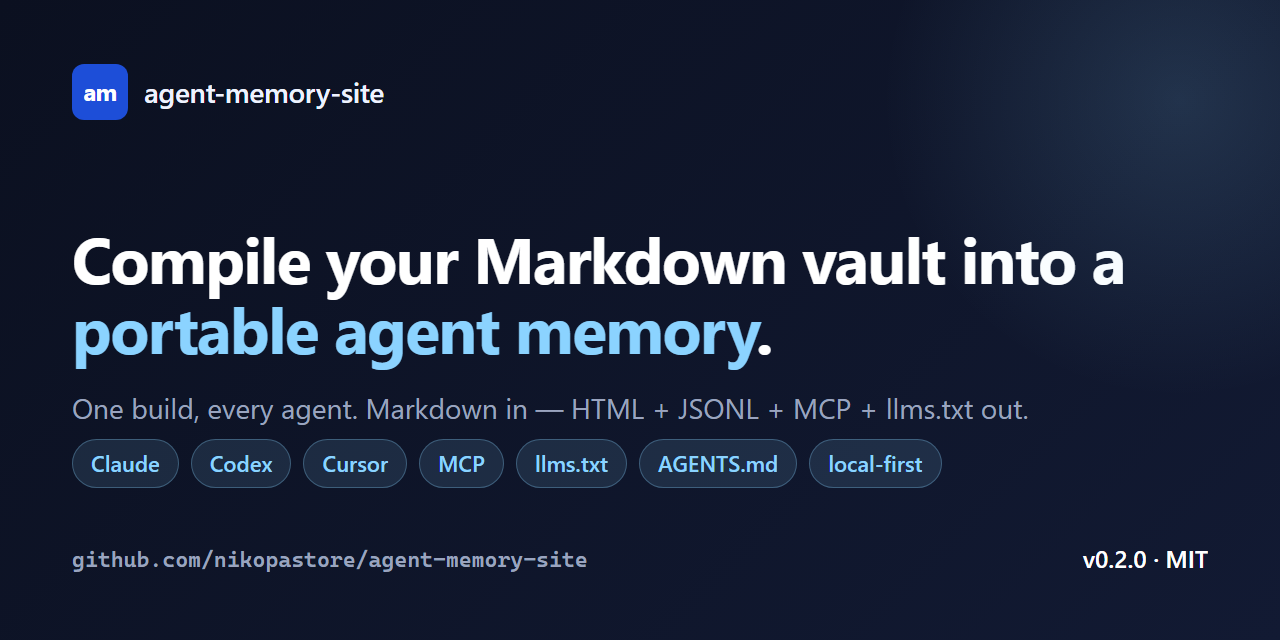
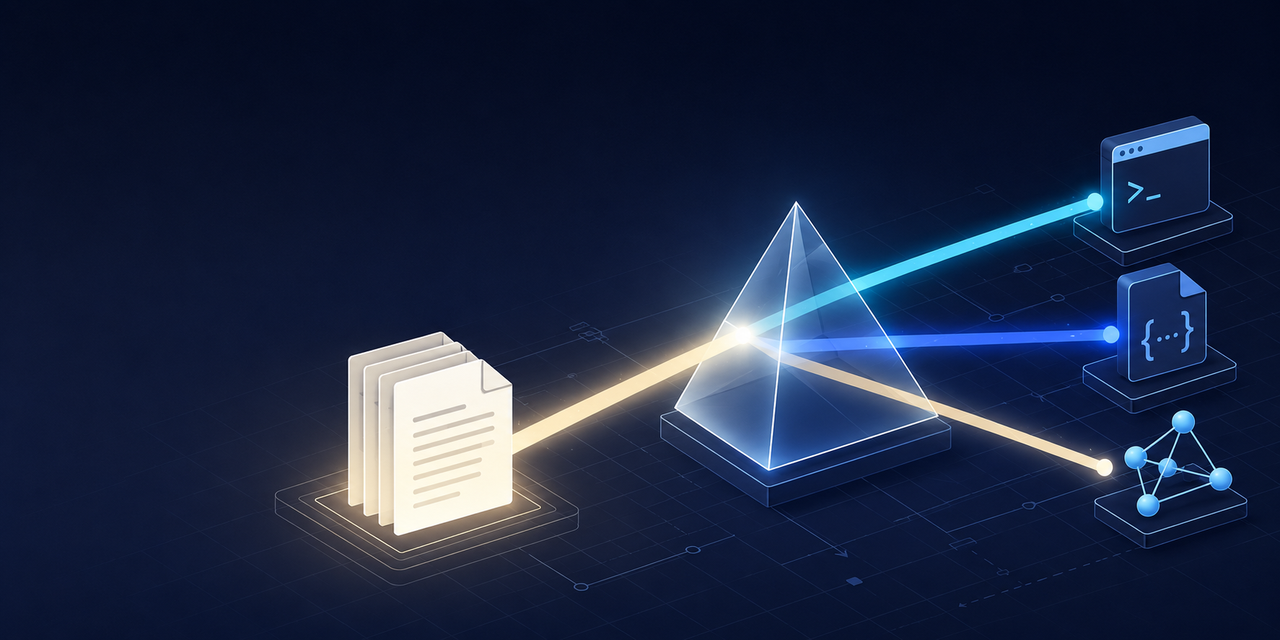
chore: drop in real social-preview image (885 KB, 1280x640), tidy CHANGELOG

diff --git a/CHANGELOG.md b/CHANGELOG.md
@@ -14,8 +14,7 @@ Format: [Keep a Changelog](https://keepachangelog.com/en/1.1.0/). Versioning: [S
 - **"Use cases" table** in README — 8 concrete scenarios.
 - **Ecosystem narrative** — first repo in a planned family (`agent-memory-lint`, `-sync`, `-template`, `-bench`).
 - **Security/privacy issue template** ([`.github/ISSUE_TEMPLATE/security_or_privacy.yml`](.github/ISSUE_TEMPLATE/security_or_privacy.yml)) for non-vulnerability design concerns.
-- **LAUNCH.md** — internal launch artifacts (Show HN draft, Twitter thread, LinkedIn post, resume bullets).
-- **`docs/og-image-prompt.md`** — prompt for regenerating the social-preview image via any text-to-image model.
+- **Custom social preview image** (`assets/social-preview.png`) ready for GitHub repo settings upload.
 
 ### Changed
 
